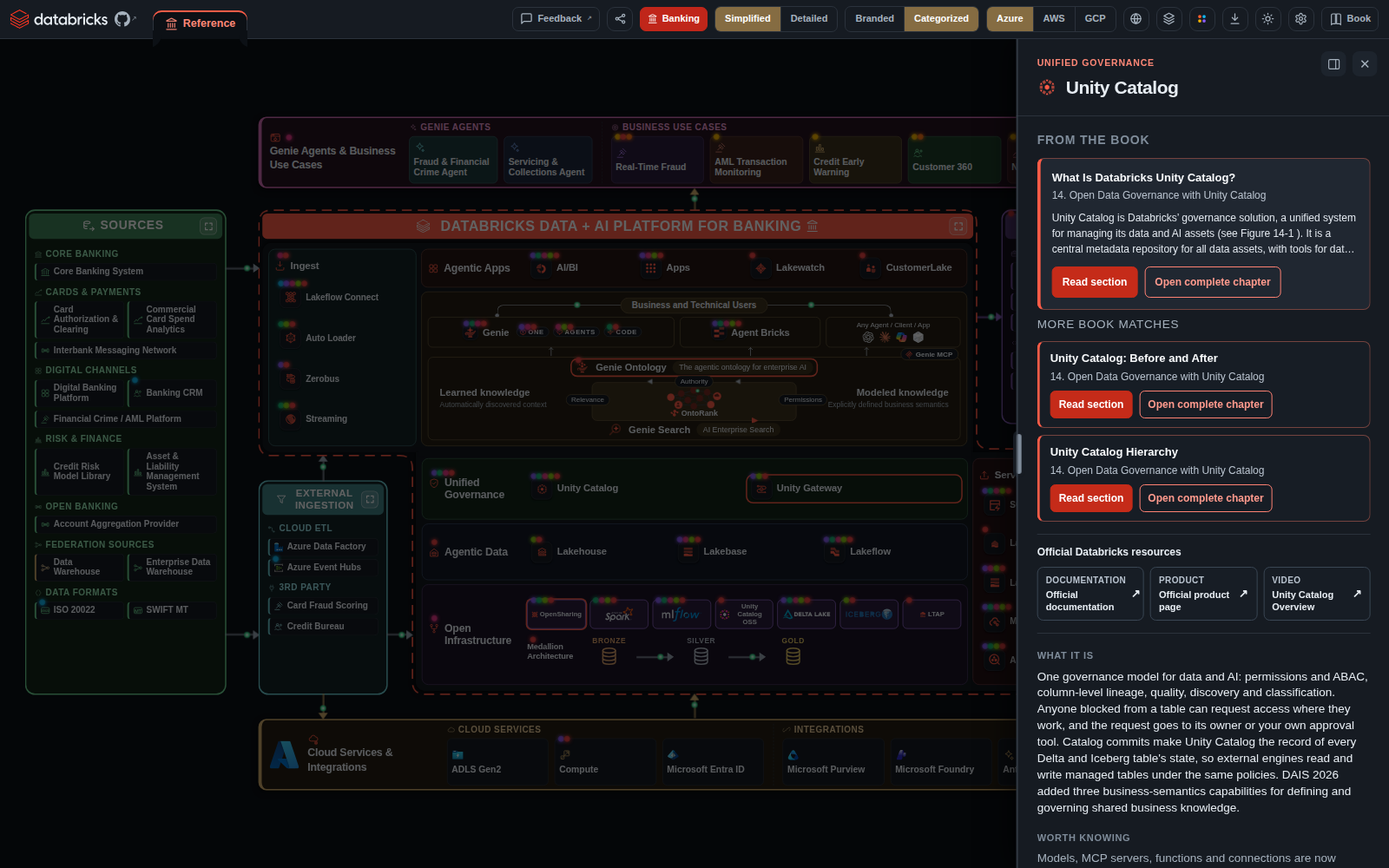
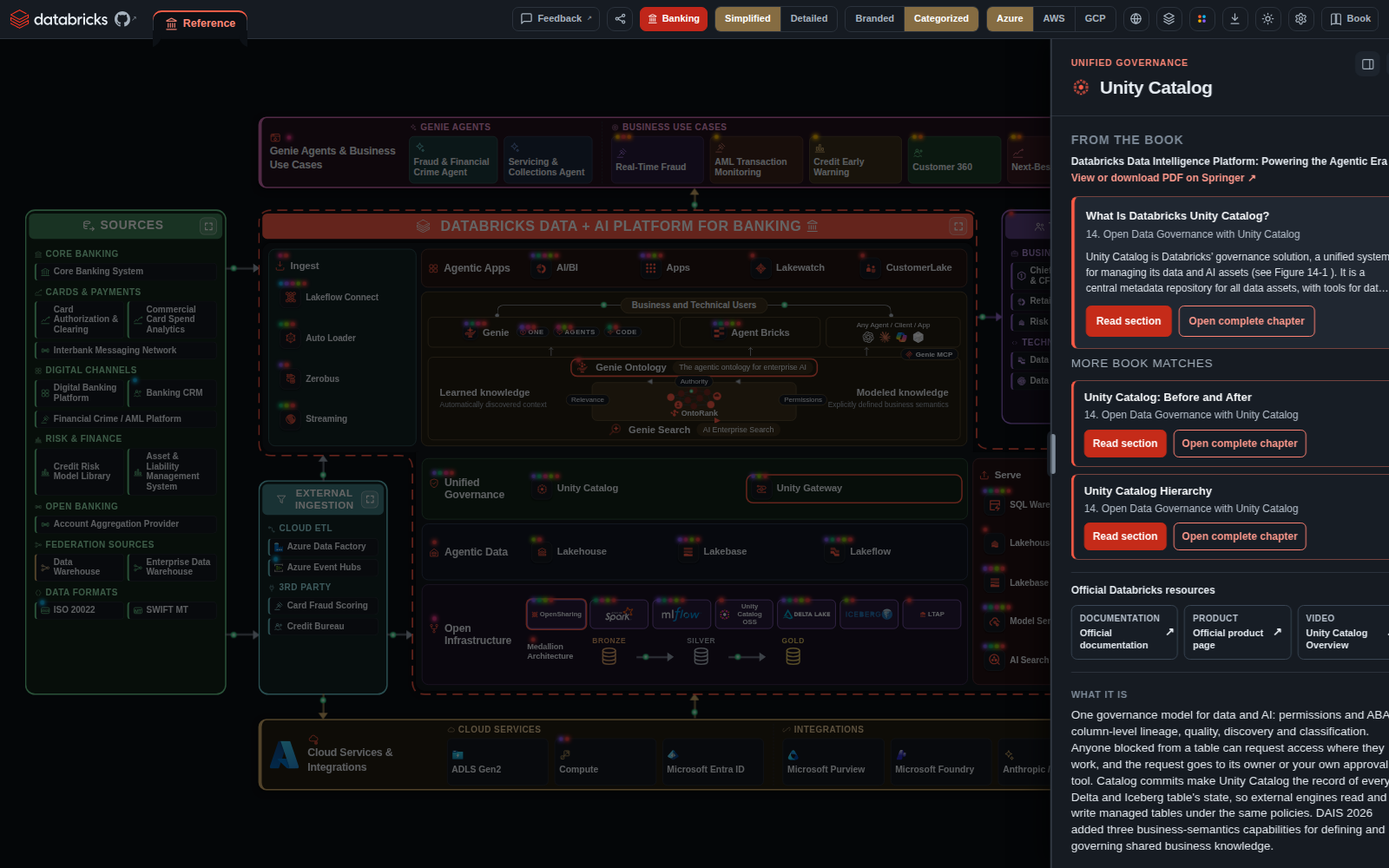
Identify source book and add Springer PDF link

Changed region(s): [[0.7188, 0.031, 1.0, 1.0], [0.9688, 0.527, 1.0, 0.558]]

diff --git a/addon/reader/reader.js b/addon/reader/reader.js
@@ -3,6 +3,7 @@
   const back=document.getElementById("back");
   const kicker=document.getElementById("reader-kicker");
   const contextLabel=document.getElementById("reader-context");
+  const bookLink=document.getElementById("reader-book-link");
   const status=document.getElementById("status");
   let book;
   let currentContext=null;
@@ -14,6 +15,7 @@
   const license=()=>'<div class="reader-license">© The Authors 2026 · <a href="https://creativecommons.org/licenses/by-nc-nd/4.0/" target="_blank" rel="noopener">CC BY-NC-ND 4.0</a></div>';
   const chapterNumber=chapter=>{const match=chapter.title.match(/^(\d+)\.\s*/);return match?"Chapter "+match[1]:"Book chapter"};
   const findSection=(chapterSlug,sectionId)=>{const chapter=book&&book.chapters.find(item=>item.slug===chapterSlug);if(!chapter)return null;const section=chapter.sections.find(item=>item.id===sectionId)||chapter.sections.find(item=>item.depth>1)||chapter.sections[0];return {chapter,section}};
+  const introductionMatch=()=>{const chapter=book&&book.chapters.find(item=>item.title.replace(/^\d+\.\s*/,"").trim().toLowerCase()==="introduction"),section=chapter&&chapter.sections.find(item=>item.depth>1);return chapter&&section?{chapter:chapter.slug,chapterTitle:chapter.title,section:section.id,sectionTitle:section.title,excerpt:(section.text||"").slice(0,220)+((section.text||"").length>220?"…":""),fallback:true}:null};
   const setHeader=(primary,secondary)=>{kicker.textContent=primary;contextLabel.textContent=secondary};
   const announce=message=>{status.textContent="";requestAnimationFrame(()=>status.textContent=message)};
   const setLocation=(state,mode)=>{const params=query();for(const key of ["chapter","section","view"])params.delete(key);if(state.view!=="matches"){params.set("chapter",state.chapter);params.set("view",state.view);if(state.section)params.set("section",state.section)}if(mode)history[mode+"State"](state,"",location.pathname+"?"+params.toString());if(query().get("embedded")==="1")parent.postMessage({type:"databricks-addon-state",view:state.view,chapter:state.chapter||"",section:state.section||""},location.origin)};
@@ -25,10 +27,11 @@
   }
 
   function renderMatches(context,matches,historyMode="replace"){
-    clearChapterNavigation();currentContext=context;currentMatches=matches||[];back.hidden=true;setHeader("Relevant Book Content","Databricks Data Intelligence Platform");
-    document.title="Relevant Book Content";setLocation({bookNav:true,view:"matches",canGoBack:false},historyMode);announce("Returned to book matches");
-    if(!currentMatches.length){content.innerHTML='<section class="empty-state"><h1>No direct book match</h1><p>The selected architecture component is not covered directly in this edition.</p></section>';return}
-    const head=document.createElement("section");head.className="context-head";head.innerHTML='<h1></h1><p></p>';head.querySelector("h1").textContent=context.name;head.querySelector("p").textContent="Relevant passages from the book";
+    clearChapterNavigation();currentContext=context||currentContext||{name:"Book introduction"};currentMatches=matches&&matches.length?matches:[introductionMatch()].filter(Boolean);back.hidden=true;setHeader("Relevant Book Content",book.title);
+    document.title="Relevant Book Content";setLocation({bookNav:true,view:"matches",canGoBack:false},historyMode);announce(currentMatches[0]&&currentMatches[0].fallback?"No direct match; showing the book introduction":"Returned to book matches");
+    if(!currentMatches.length){content.innerHTML='<section class="empty-state"><h1>Book introduction unavailable</h1><p>The book content could not be loaded.</p></section>';return}
+    const head=document.createElement("section");head.className="context-head";head.innerHTML='<h1></h1><p></p>';head.querySelector("h1").textContent=currentContext.name;head.querySelector("p").textContent="Relevant passages from the book";
+    if(currentMatches[0].fallback)head.querySelector("p").textContent="No direct match — start with the book introduction";
     const list=document.createElement("div");list.className="matches";
     for(const [index,match] of currentMatches.entries()){const button=document.createElement("button");button.type="button";button.className="match-card";button.innerHTML='<strong></strong><span></span><small></small>';button.querySelector("strong").textContent=match.sectionTitle;button.querySelector("span").textContent=match.chapterTitle;button.querySelector("small").textContent=match.excerpt;button.addEventListener("click",()=>{lastMatchIndex=index;openPassage(match.chapter,match.section,{historyMode:"push",canGoBack:true})});list.append(button)}
     content.replaceChildren(head,list);content.insertAdjacentHTML("beforeend",license());requestAnimationFrame(()=>{const target=list.children[lastMatchIndex];if(historyMode===null&&target)target.focus();else content.focus({preventScroll:true})});
@@ -59,6 +62,6 @@
   addEventListener("popstate",event=>{const state=event.state;if(!state||!state.bookNav)return;if(state.view==="matches")renderMatches(currentContext,currentMatches,null);else if(state.view==="section")openPassage(state.chapter,state.section,{historyMode:null,canGoBack:state.canGoBack});else if(state.view==="chapter")openChapter(state.chapter,null,{historyMode:null,canGoBack:state.canGoBack})});
   addEventListener("message",event=>{if(event.origin!==location.origin||!event.data)return;if(event.data.type==="databricks-addon-theme")setTheme(event.data.theme);if(event.data.type==="databricks-addon-context"){currentContext=event.data.context;currentMatches=event.data.matches||[];if(!query().get("chapter"))renderMatches(currentContext,currentMatches)}});
   document.addEventListener("keydown",event=>{if(event.key==="Escape"&&query().get("embedded")==="1"){event.preventDefault();parent.postMessage({type:"databricks-addon-escape"},location.origin)}});
-  fetch("book.json",{cache:"no-store"}).then(response=>response.json()).then(data=>{book=data;const params=query();if(params.get("chapter")){if(params.get("view")==="chapter")openChapter(params.get("chapter"),null,{historyMode:"replace",canGoBack:false});else openPassage(params.get("chapter"),params.get("section"),{historyMode:"replace",canGoBack:false})}else setLocation({bookNav:true,view:"matches",canGoBack:false},"replace")}).catch(()=>{content.innerHTML='<section class="empty-state"><h1>Book content unavailable</h1></section>'});
+  fetch("book.json",{cache:"no-store"}).then(response=>response.json()).then(data=>{book=data;contextLabel.textContent=book.title||contextLabel.textContent;if(book.sourceUrl){bookLink.href=book.sourceUrl;bookLink.textContent=book.title+" — view or download PDF on Springer ↗";bookLink.hidden=false}else bookLink.hidden=true;const params=query();if(params.get("chapter")){if(params.get("view")==="chapter")openChapter(params.get("chapter"),null,{historyMode:"replace",canGoBack:false});else openPassage(params.get("chapter"),params.get("section"),{historyMode:"replace",canGoBack:false})}else if(currentContext)renderMatches(currentContext,currentMatches);else setLocation({bookNav:true,view:"matches",canGoBack:false},"replace")}).catch(()=>{content.innerHTML='<section class="empty-state"><h1>Book content unavailable</h1></section>'});
   setTheme(query().get("theme"));
 })();

diff --git a/integration/smoke_addon.js b/integration/smoke_addon.js
@@ -15,6 +15,7 @@ function check(name,value,detail){checks.push(!!value);console.log((value?'PASS 
     const unity=page.locator('.atom:visible').filter({hasText:'Unity Catalog'}).first();await unity.click();
     await page.locator('.addon-context-link').first().waitFor();
     check('book references are prioritized above other resources',await page.locator('#d-body > :first-child').evaluate(node=>node.classList.contains('addon-context-card')));
+    check('the source book is identified with a Springer PDF link',await page.locator('.addon-book-identity strong').textContent()==='Databricks Data Intelligence Platform: Powering the Agentic Era'&&await page.locator('.addon-book-identity a').getAttribute('href')==='https://link.springer.com/book/10.1007/979-8-8688-2524-8');
     const labels=await page.locator('.addon-context-link').allTextContents();
     check('the selected architecture box gets mapped to subsections',labels.length>0&&labels.join(' ').includes('Unity Catalog')&&!labels[0].startsWith('14. Open Data Governance'),labels.join(' | '));
     check('the concise book preview is readable without hover',await page.locator('.addon-context-link p').first().isVisible());
@@ -22,6 +23,8 @@ function check(name,value,detail){checks.push(!!value);console.log((value?'PASS 
     const officialLinks=page.locator('.addon-official a');check('official docs and video remain visible beside the book',await officialLinks.count()>=2&&await page.locator('.addon-official').getByText('Documentation',{exact:true}).count()===1&&await page.locator('.addon-official').getByText('Video',{exact:true}).count()===1);
     check('promoted references use only official Databricks sources',await officialLinks.evaluateAll(links=>links.every(link=>{const host=new URL(link.href).hostname.replace(/^www\./,'');return ['databricks.com','docs.databricks.com','youtube.com','youtu.be'].some(domain=>host===domain||host.endsWith('.'+domain))})));
     check('the full native documentation and video sections are retained',(await page.locator('#d-body').innerText()).includes('LEARN MORE')&&(await page.locator('#d-body').innerText()).includes('DATABRICKS YOUTUBE CHANNEL'));
+    await page.evaluate(()=>{const title=document.getElementById('d-title'),body=document.getElementById('d-body'),eyebrow=document.getElementById('d-eyebrow'),tagline=document.getElementById('d-tagline');window.__bookContext={title:title.textContent,eyebrow:eyebrow&&eyebrow.textContent,tagline:tagline&&tagline.textContent};title.textContent='Qzxvplmnw';if(eyebrow)eyebrow.textContent='';if(tagline)tagline.textContent='';delete body.dataset.bookContext});await page.getByRole('heading',{name:'Start with the book introduction'}).waitFor();check('an unmapped architecture component falls back to the book introduction',await page.locator('.addon-context-link h5').first().textContent()==='1. Navigating the Data Intelligence Architecture'&&await page.locator('.addon-context-fallback').textContent()==='No direct book match for this component.');
+    await page.evaluate(()=>{const title=document.getElementById('d-title'),body=document.getElementById('d-body'),eyebrow=document.getElementById('d-eyebrow'),tagline=document.getElementById('d-tagline'),saved=window.__bookContext;title.textContent=saved.title;if(eyebrow)eyebrow.textContent=saved.eyebrow;if(tagline)tagline.textContent=saved.tagline;delete body.dataset.bookContext});await page.getByRole('heading',{name:'From the book'}).waitFor();
     await page.evaluate(()=>document.body.classList.add('theme-dark'));
     const contrast=await page.locator('.addon-context-link').first().evaluate(card=>{
       const rgb=value=>(value.match(/[\d.]+/g)||[]).slice(0,3).map(Number);
@@ -37,6 +40,8 @@ function check(name,value,detail){checks.push(!!value);console.log((value?'PASS 
     check('dark mode book card text meets readable contrast',Math.min(contrast.heading,contrast.chapter,contrast.preview)>=4.5,JSON.stringify(contrast));
     await page.locator('.addon-context-link').first().getByRole('button',{name:'Read section'}).click();
     const frame=page.frameLocator('.addon-shell iframe');await frame.locator('.passage').waitFor();
+    check('the reader keeps the book identity and PDF link visible',await frame.locator('#reader-book-link').isVisible()&&(await frame.locator('#reader-book-link').textContent()).includes('Databricks Data Intelligence Platform: Powering the Agentic Era')&&await frame.locator('#reader-book-link').getAttribute('href')==='https://link.springer.com/book/10.1007/979-8-8688-2524-8');
+    check('the reader book link wraps clear of its controls',await frame.locator('#reader-book-link').evaluate(link=>{const header=link.closest('.reader-header'),box=link.getBoundingClientRect(),headerBox=header.getBoundingClientRect();return box.right<=headerBox.right-160&&getComputedStyle(link).whiteSpace==='normal'}));
     check('only the selected passage opens',await frame.locator('.chapters').count()===0&&await frame.locator('.passage').count()===1);
     check('the section heading appears once',await frame.getByRole('heading',{name:'What Is Databricks Unity Catalog?',exact:true}).count()===1);
     check('the section reader stays compact',await frame.locator('.passage-head h1').evaluate(node=>parseFloat(getComputedStyle(node).fontSize))<=36);
@@ -59,6 +64,7 @@ function check(name,value,detail){checks.push(!!value);console.log((value?'PASS 
     check('the off-screen top TOC leaves keyboard navigation when the side TOC takes over',await chapterFrame.locator('.chapter-toc').evaluate(node=>node.inert&&node.getAttribute('aria-hidden')==='true')&&await sideToc.evaluate(node=>!node.inert&&node.getAttribute('aria-hidden')==='false'));
     check('the active side link stays visible without changing reading position',await sideToc.locator('a[aria-current="location"]').evaluate(link=>{const nav=link.closest('nav'),before=scrollY,linkBox=link.getBoundingClientRect(),navBox=nav.getBoundingClientRect();link.focus({preventScroll:true});return scrollY===before&&document.activeElement===link&&linkBox.top>=navBox.top&&linkBox.bottom<=navBox.bottom}));
     await page.reload({waitUntil:'networkidle'});await boardReady(page);const restoredFrame=page.frameLocator('.addon-shell iframe');await restoredFrame.locator('.chapter-view').waitFor();check('refresh restores the chapter view',await restoredFrame.locator('.chapter-toc').isVisible());
+    const direct=await browser.newPage({viewport:{width:900,height:800}});await direct.goto('http://127.0.0.1:'+server.address().port+'/addons/book/index.html?chapter=introduction&view=chapter',{waitUntil:'networkidle'});await direct.locator('.chapter-view').waitFor();await direct.locator('#back').click();await direct.locator('.match-card').waitFor();check('a direct chapter deep link can return to the introduction fallback without host context',await direct.locator('.context-head h1').textContent()==='Book introduction'&&await direct.locator('.match-card strong').textContent()==='1. Navigating the Data Intelligence Architecture');await direct.close();
   }finally{await browser.close();await new Promise(resolve=>server.close(resolve))}
   if(checks.some(value=>!value))process.exitCode=1;
 })().catch(error=>{console.error(error);process.exitCode=1});

diff --git a/integration/addon-host.css b/integration/addon-host.css
@@ -1,3 +1,5 @@
 .addon-slot{display:flex;align-items:center}.addon-launcher svg{width:16px;height:16px;fill:none;stroke:currentColor;stroke-width:1.7;stroke-linejoin:round}.addon-context-card{margin:0 0 18px;padding:0 0 14px;border-bottom:1px solid var(--line,#d8dee4)}.addon-context-card>h4{margin:0 0 10px;font-size:14px}.addon-context-more{margin:12px 0 6px;color:var(--muted,#59636e);font-size:12px;letter-spacing:.05em;text-transform:uppercase}.addon-context-link{display:block;width:100%;margin:8px 0;padding:13px;border:1px solid #e3a9a2;border-left:4px solid var(--brand,#ff3621);border-radius:8px;background:#fff7f5;color:#1b1f24;text-align:left}.addon-context-link:hover,.addon-context-link:focus-within{border-color:var(--brand,#ff3621);box-shadow:0 0 0 2px color-mix(in srgb,var(--brand,#ff3621) 12%,transparent)}.addon-context-link h5,.addon-context-link span{display:block}.addon-context-link h5{margin:0;color:#20252b;font-size:13px;line-height:1.35}.addon-context-link span{margin-top:4px;color:#59636e;font-size:12px;line-height:1.35}.addon-context-link p{display:-webkit-box;overflow:hidden;margin:9px 0 0;color:#30363d;font-size:12px;line-height:1.5;-webkit-box-orient:vertical;-webkit-line-clamp:3}.addon-context-link.compact{padding:10px 12px;border-left-width:3px;background:transparent}.addon-context-link.compact .addon-context-actions{margin-top:8px}.addon-context-actions{display:flex;gap:8px;margin-top:11px}.addon-context-actions button{min-height:36px;padding:7px 11px;border:1px solid #c52b19;border-radius:6px;background:#c52b19;color:#fff;font-size:12px;font-weight:700;cursor:pointer}.addon-context-actions button.secondary{background:transparent;color:#9e2114}.addon-context-actions button:hover,.addon-context-actions button:focus-visible{filter:brightness(.92);outline:2px solid #8b1e13;outline-offset:2px}.addon-context-link.compact .addon-context-actions button{min-height:32px;padding:5px 9px}.addon-close{width:44px;height:44px;border:0;border-radius:7px;background:transparent;color:inherit;font-size:28px;line-height:1;cursor:pointer}.addon-close:hover{background:#8882}.addon-close:focus-visible{outline:2px solid #c52b19;outline-offset:2px}body.theme-dark .addon-context-link{border-color:#74433f;border-left-color:#ff5c47;background:#202731;color:#f0f4f8}body.theme-dark .addon-context-link h5{color:#f7f9fb}body.theme-dark .addon-context-link span{color:#b9c3cf}body.theme-dark .addon-context-link p{color:#e1e7ee}body.theme-dark .addon-context-link.compact{background:#171d25}body.theme-dark .addon-context-actions button.secondary{color:#ff9a8d;border-color:#ff8273}body.theme-dark .addon-context-actions button:focus-visible,body.theme-dark .addon-close:focus-visible{outline-color:#ff9a8d}.addon-shell{position:fixed;z-index:10020;top:0;right:0;bottom:0;width:min(680px,calc(100vw - 240px));min-width:560px;background:#fff;color:#1b1f24;box-shadow:-16px 0 48px #0005}.addon-shell>header{position:absolute;z-index:3;top:4px;right:5px;display:flex;width:44px;height:44px;align-items:center;justify-content:center;background:transparent;color:inherit}.addon-shell>header>strong{display:none}.addon-shell iframe{width:100%;height:100%;border:0;background:#fff}body.theme-dark .addon-shell{background:#0d1117;color:#e6edf3}body.theme-dark .addon-shell iframe{background:#0d1117}.addon-open{overflow:hidden}@media(max-width:900px){.addon-shell{width:100vw;min-width:0}.addon-context-actions{flex-wrap:wrap}}@media(max-width:500px){.addon-context-actions button{min-height:44px}.addon-context-link.compact .addon-context-actions button{min-height:40px}}@media print{.addon-slot,.addon-context-card,.addon-shell{display:none!important}}
 .addon-shell{transition:width .22s ease}.addon-shell.is-fullscreen{width:100vw;min-width:0}.addon-shell>header{top:5px;right:6px;width:auto;gap:4px}.addon-fullscreen,.addon-close{height:40px;border:0;border-radius:7px;background:transparent;color:inherit;cursor:pointer}.addon-fullscreen{display:flex;align-items:center;gap:6px;padding:0 10px;font-size:12px;font-weight:700}.addon-fullscreen-icon{font-size:18px;line-height:1}.addon-close{width:40px}.addon-fullscreen:hover,.addon-close:hover{background:#8882}.addon-fullscreen:focus-visible,.addon-close:focus-visible{outline:2px solid #c52b19;outline-offset:2px}body.theme-dark .addon-fullscreen:focus-visible,body.theme-dark .addon-close:focus-visible{outline-color:#ff9a8d}@media(max-width:500px){.addon-fullscreen{width:40px;padding:0;justify-content:center}.addon-fullscreen-label{position:absolute;width:1px;height:1px;overflow:hidden;clip:rect(0,0,0,0)}}@media(prefers-reduced-motion:reduce){.addon-shell{transition:none}}
 .addon-official{margin-top:14px;padding-top:12px;border-top:1px solid var(--line,#d8dee4)}.addon-official>h5{margin:0 0 8px;color:inherit;font-size:12px}.addon-official>div{display:grid;grid-template-columns:repeat(3,minmax(0,1fr));gap:7px}.addon-official a{display:grid;grid-template-columns:1fr auto;gap:2px 6px;min-height:54px;padding:8px 9px;border:1px solid var(--line,#d8dee4);border-radius:7px;background:transparent;color:inherit;text-decoration:none}.addon-official a:hover,.addon-official a:focus-visible{border-color:var(--brand,#ff3621);outline:2px solid color-mix(in srgb,var(--brand,#ff3621) 35%,transparent);outline-offset:1px}.addon-official a span{grid-column:1;color:var(--muted,#59636e);font-size:10px;font-weight:700;letter-spacing:.04em;text-transform:uppercase}.addon-official a strong{grid-column:1;font-size:11px;line-height:1.3}.addon-official a b{grid-column:2;grid-row:1/3;align-self:center;font-size:13px}body.theme-dark .addon-official a{border-color:#3a4654;background:#171d25}body.theme-dark .addon-official a span{color:#b9c3cf}@media(max-width:560px){.addon-official>div{grid-template-columns:1fr}.addon-official a{min-height:48px}}
+.addon-context-fallback{margin:-3px 0 10px;color:var(--muted,#59636e);font-size:12px;line-height:1.4}body.theme-dark .addon-context-fallback{color:#c3ccd6}
+.addon-book-identity{display:grid;gap:3px;margin:-4px 0 12px}.addon-book-identity strong{color:inherit;font-size:12px;line-height:1.4;overflow-wrap:anywhere;white-space:normal}.addon-book-identity a{max-width:100%;color:#9e2114;font-size:12px;font-weight:700;overflow-wrap:anywhere;text-decoration:none;white-space:normal}.addon-book-identity a:hover{text-decoration:underline}.addon-book-identity a:focus-visible{outline:2px solid #8b1e13;outline-offset:2px}body.theme-dark .addon-book-identity a{color:#ff9a8d}body.theme-dark .addon-book-identity a:focus-visible{outline-color:#ff9a8d}

diff --git a/integration/addon-host.js b/integration/addon-host.js
@@ -20,6 +20,10 @@
   const words=value=>[...new Set(normalize(value).split(" ").filter(word=>word.length>2&&!stop.has(word)))];
   function sameOrigin(value){const url=new URL(value,manifestUrl);return url.origin===location.origin?url:null}
   function excerpt(text,phrases){const clean=(text||"").replace(/\s+/g," ").trim();const lower=clean.toLowerCase();let at=-1;for(const phrase of phrases){at=lower.indexOf(phrase);if(at>=0)break}const start=Math.max(0,(at<0?0:at)-70);return(start?"…":"")+clean.slice(start,start+220)+(start+220<clean.length?"…":"")}
+  function introductionMatch(){
+    const chapter=book&&book.chapters.find(item=>normalize(item.title)==="introduction");const section=chapter&&chapter.sections.find(item=>item.depth>1);if(!chapter||!section)return null;
+    return {score:0,chapter:chapter.slug,chapterTitle:chapter.title,section:section.id,sectionTitle:section.title||chapter.title,excerpt:excerpt(section.text,[]),fallback:true};
+  }
 
   function rank(context){
     if(!book||!context||!context.name)return [];
@@ -32,7 +36,7 @@
       if(score>=18)matches.push({score,chapter:chapter.slug,chapterTitle:chapter.title,section:section.id,sectionTitle:section.title||chapter.title,excerpt:excerpt(section.text,phrases)});
     }
     matches.sort((a,b)=>b.score-a.score);
-    const seen=new Set();return matches.filter(match=>{const key=match.chapter+"#"+match.section;if(seen.has(key))return false;seen.add(key);return true}).slice(0,3);
+    const seen=new Set(),ranked=matches.filter(match=>{const key=match.chapter+"#"+match.section;if(seen.has(key))return false;seen.add(key);return true}).slice(0,3);const fallback=introductionMatch();return ranked.length?ranked:(fallback?[fallback]:[]);
   }
 
   function officialResources(context){
@@ -71,7 +75,7 @@
     if(!context.name)return;const signature=[context.name,context.section,context.tagline].join("|");if(body.dataset.bookContext===signature)return;
     body.dataset.bookContext=signature;currentContext=context;currentMatches=rank(context);body.querySelectorAll(".addon-context-card").forEach(node=>node.remove());
     if(!currentMatches.length){sendContext();return}
-    const card=document.createElement("section");card.className="addon-context-card";const heading=document.createElement("h4");heading.textContent="From the book";card.append(heading);
+    const card=document.createElement("section");card.className="addon-context-card";const heading=document.createElement("h4");heading.textContent=currentMatches[0].fallback?"Start with the book introduction":"From the book";const identity=document.createElement("div");identity.className="addon-book-identity";const bookTitle=document.createElement("strong");bookTitle.textContent=book.title||contextAddon.title;identity.append(bookTitle);if(book.sourceUrl){const sourceLink=document.createElement("a");sourceLink.href=book.sourceUrl;sourceLink.target="_blank";sourceLink.rel="noopener";sourceLink.textContent="View or download PDF on Springer ↗";identity.append(sourceLink)}card.append(heading,identity);if(currentMatches[0].fallback){const note=document.createElement("p");note.className="addon-context-fallback";note.textContent="No direct book match for this component.";card.append(note)}
     for(const [index,match] of currentMatches.entries()){
       if(index===1){const more=document.createElement("p");more.className="addon-context-more";more.textContent="More book matches";card.append(more)}
       const item=document.createElement("article");const headingId="addon-match-"+index+"-"+match.section.replace(/[^a-z0-9_-]/gi,"-");item.className="addon-context-link"+(index?" compact":"");item.setAttribute("aria-labelledby",headingId);item.innerHTML='<h5 id="'+headingId+'"></h5><span></span>'+(index?'':'<p></p>')+'<div class="addon-context-actions"></div>';item.querySelector("h5").textContent=match.sectionTitle;item.querySelector("span").textContent=match.chapterTitle;if(!index)item.querySelector("p").textContent=match.excerpt;

diff --git a/addon/reader/reader.css b/addon/reader/reader.css
@@ -4,3 +4,4 @@
 .reader-header{padding-right:174px}.chapter-link{display:flex;width:100%;min-height:58px;align-items:center;justify-content:space-between;gap:18px;margin-top:18px;padding:11px 15px;border:1px solid #a92314;border-radius:8px;background:#c52b19;color:#fff;text-align:left;box-shadow:0 4px 12px #64180f24;cursor:pointer}.chapter-link span,.chapter-link strong,.chapter-link small{display:block}.chapter-link strong{font-size:14px;line-height:1.3}.chapter-link small{margin-top:2px;color:#fff;font-size:11px;font-weight:500;line-height:1.35;opacity:.86}.chapter-link b{font-size:21px}.chapter-link:hover{background:#a92314;box-shadow:0 6px 16px #64180f38}@media(max-width:900px){.reader-header{padding-right:174px}}@media(max-width:500px){.reader-header{padding-right:96px}}
 .chapter-toc a.current{color:var(--accent);font-weight:800;text-decoration:underline;text-decoration-thickness:2px;text-underline-offset:3px}
 .chapter-side-toc{display:none}@media(min-width:1200px){html.chapter-toc-passed .chapter-side-toc{position:fixed;z-index:6;top:88px;left:max(18px,calc(50vw - 620px));display:block;width:clamp(190px,15vw,240px);max-height:calc(100vh - 112px);overflow:auto;padding:14px;border:1px solid var(--line);border-radius:10px;background:var(--panel);box-shadow:0 10px 28px #0002}.chapter-side-toc strong{display:block;margin-bottom:8px;font-size:12px}.chapter-side-toc div{display:grid;gap:3px}.chapter-side-toc a{padding:5px 7px;border-radius:5px;color:inherit;font-size:12px;line-height:1.35;text-decoration:none}.chapter-side-toc a:hover{background:color-mix(in srgb,var(--accent) 10%,transparent);color:var(--accent)}.chapter-side-toc a.current{background:color-mix(in srgb,var(--accent) 14%,transparent);color:var(--accent);font-weight:800}}
+.reader-title{overflow:hidden}.reader-book-link{align-self:flex-start;max-width:100%;margin-top:3px;color:var(--accent);font-size:11px;font-weight:700;line-height:1.3;overflow-wrap:anywhere;text-decoration:none;white-space:normal}.reader-book-link:hover{text-decoration:underline}.reader-book-link:focus-visible{outline:2px solid var(--accent);outline-offset:2px}.reader-book-link[hidden]{display:none}

diff --git a/addon/reader/index.html b/addon/reader/index.html
@@ -12,7 +12,8 @@
     <button id="back" class="back-button" type="button" hidden>← Matches</button>
     <div class="reader-title">
       <strong id="reader-kicker">Relevant Book Content</strong>
-      <span id="reader-context">Databricks Data Intelligence Platform</span>
+      <span id="reader-context">Databricks Data Intelligence Platform: Powering the Agentic Era</span>
+      <a id="reader-book-link" class="reader-book-link" href="https://link.springer.com/book/10.1007/979-8-8688-2524-8" target="_blank" rel="noopener">Databricks Data Intelligence Platform: Powering the Agentic Era — view or download PDF on Springer ↗</a>
     </div>
   </header>
   <main id="content" class="content" tabindex="-1">
